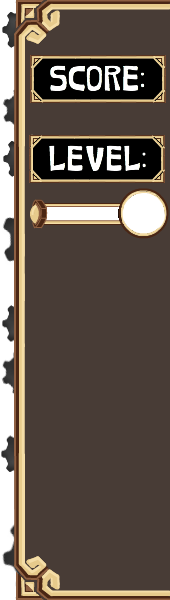
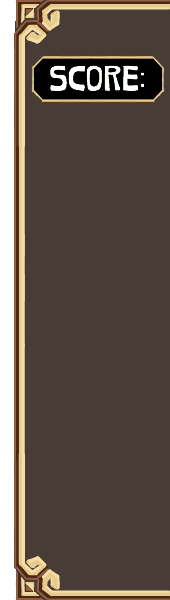
UI Update
Now matches model from Google Drive

diff --git a/src/game/UI/OldUI.java b/src/game/UI/OldUI.java
@@ -16,7 +16,7 @@ import com.badlogic.gdx.math.Rectangle;
 
 import sounds.SoundSystem;
 
-public class UI
+public class OldUI
 {
 	float UIBar;
 	float time = 0;
@@ -39,7 +39,7 @@ public class UI
 	private Sprite UIBase;
 	private Sprite XPFill;
 	private Sprite XPEmpty;
-//	private Sprite XPGlow;
+	private Sprite XPGlow;
 	private Sprite pause;
 	private Sprite nuke;
 	private Sprite nukeCount;
@@ -67,7 +67,7 @@ public class UI
 	private boolean pauseState = false;
 	public boolean nukeState = false;
 	
-	public UI(GameStats stats, GraphicsManager graphics, TheDevice state, Room room, SoundSystem sound, float[] render){
+	public OldUI(GameStats stats, GraphicsManager graphics, TheDevice state, Room room, SoundSystem sound, float[] render){
 		this.state = state;
 		
 		gWidth = render[0]*render[2];
@@ -78,7 +78,7 @@ public class UI
 		this.UIBase = new Sprite(room.getAsset("ui_base"));
 		this.XPFill = new Sprite(room.getAsset("ui_xpfill"));
 		this.XPEmpty = new Sprite(room.getAsset("ui_xpempty"));
-//		this.XPGlow = new Sprite(room.getAsset("ui_xpglow"));
+		this.XPGlow = new Sprite(room.getAsset("ui_xpglow"));
 		this.pause = new Sprite(room.getAsset("ui_pause"));
 		this.nuke = new Sprite(room.getAsset("ui_bomb"));
 		this.nukeCount = new Sprite(room.getAsset("ui_bombcount"));
@@ -97,35 +97,34 @@ public class UI
 		XPEmpty.setSize(gWidth*0.11f, gHeight*0.07f);
 		UIBox = UIBase.getBoundingRectangle();
 		//Set Glow
-//		XPGlow.setSize(gWidth * 0.15f,gHeight);
-//		XPGlow.setPosition(gWidth*0.85f, 0);
+		XPGlow.setSize(gWidth * 0.15f,gHeight);
+		XPGlow.setPosition(gWidth*0.85f, 0);
 		//Set Pause
 		pause.setPosition(gWidth*0.92f, gHeight*0.90f);
 		pause.setRegion(0, 0, 57, 57);
 		pause.setSize(gWidth*0.05f,gHeight*0.09f);
 		pauseB = pause.getBoundingRectangle();
 		//Set Nuke
-		//nuke.setPosition(gWidth*0.88f, gHeight*0.09f);
-		nuke.setPosition(gWidth*0.88f, gHeight*0.06f);
-		nuke.setSize(gWidth*0.12f, gHeight*0.18f);
+		nuke.setPosition(gWidth*0.88f, gHeight*0.14f);
+		nuke.setSize(gWidth*0.10f, gHeight*0.12f);
 		nukeB = nuke.getBoundingRectangle();
 		nukeCount.setSize(gWidth*0.08f,gHeight*0.095f);
 		//Set Mine
-		mine.setPosition(gWidth*0.875f, gHeight*0.57f);
-		mine.setSize(gWidth*0.125f,gHeight*0.165f);
+		mine.setPosition(gWidth*0.88f, gHeight*0.60f);
+		mine.setSize(gWidth*0.11f,gHeight*0.15f);
 		mine.setRegion(0,0,124,98);
 		mineB = mine.getBoundingRectangle();
 		//Set Mine count
-		mineCount.setPosition(gWidth*0.95f,gHeight*0.625f);
+		mineCount.setPosition(gWidth*0.942f,gHeight*0.345f);
 		mineCount.setSize(gWidth*0.035f,gHeight*0.058f);
 		mineCount.setRegion(117-(39*g.getMineCount()),0,39,38);
 		//Set Vortex
-		vortex.setPosition(gWidth*0.875f, gHeight*0.365f);
-		vortex.setSize(gWidth*0.125f,gHeight*0.165f);
+		vortex.setPosition(gWidth*0.88f, gHeight*0.45f);
+		vortex.setSize(gWidth*0.11f,gHeight*0.15f);
 		vortex.setRegion(0,0,124,98);
 		vortexB = vortex.getBoundingRectangle();
 		//Set Vortex count
-		vortexCount.setPosition(gWidth*0.95f,gHeight*0.42f);
+		vortexCount.setPosition(gWidth*0.942f,gHeight*0.495f);
 		vortexCount.setSize(gWidth*0.035f,gHeight*0.058f);
 		vortexCount.setRegion(117-(39*g.getMineCount()),0,39,38);
 		
@@ -221,21 +220,21 @@ public class UI
 		UIBase.draw(batch);
 		
 		//Draw Glow
-//		if(g.getXPpercent()>.95)
-//		{
-//			XPGlow.setRegion(345,0,172,602);
-//			XPGlow.draw(batch);
-//		}
-//		else if(g.getXPpercent() > .8)
-//		{
-//			XPGlow.setRegion(173,0,172,602);
-//			XPGlow.draw(batch);
-//		}
-//		else if(g.getXPpercent() > .5)
-//		{
-//			XPGlow.setRegion(0,0,172,602);
-//			XPGlow.draw(batch);
-//		}
+		if(g.getXPpercent()>.95)
+		{
+			XPGlow.setRegion(345,0,172,602);
+			XPGlow.draw(batch);
+		}
+		else if(g.getXPpercent() > .8)
+		{
+			XPGlow.setRegion(173,0,172,602);
+			XPGlow.draw(batch);
+		}
+		else if(g.getXPpercent() > .5)
+		{
+			XPGlow.setRegion(0,0,172,602);
+			XPGlow.draw(batch);
+		}
 		//Draw Score
 		String scoreString = Integer.toString(g.getScore());
 		font.draw(batch, scoreString, Gdx.graphics.getWidth() - font.getBounds(scoreString).width - gWidth*0.01f, gHeight*0.81f);
@@ -317,7 +316,7 @@ public class UI
 		{
 			nukeCount.setRegion(94,0,93,64);
 		}
-		nukeCount.setPosition(gWidth*0.86f,gHeight*0.22f);
+		nukeCount.setPosition(gWidth*0.86f,gHeight*0.09f);
 		nukeCount.draw(batch);
 		if(nukes > 1)
 		{
@@ -328,7 +327,7 @@ public class UI
 		{
 			nukeCount.setRegion(94,0,93,64);
 		}
-		nukeCount.setPosition(gWidth*0.90f,gHeight*0.24f);
+		nukeCount.setPosition(gWidth*0.90f,gHeight*0.07f);
 		nukeCount.draw(batch);
 		if(nukes > 2)
 		{
@@ -339,7 +338,7 @@ public class UI
 		{
 			nukeCount.setRegion(94,0,93,64);
 		}
-		nukeCount.setPosition(gWidth*0.94f,gHeight*0.22f);
+		nukeCount.setPosition(gWidth*0.94f,gHeight*0.09f);
 		nukeCount.draw(batch);
 		
 		

diff --git a/src/device/graphics/Graphics.java b/src/device/graphics/Graphics.java
@@ -20,6 +20,7 @@ public class Graphics
 	
 	private Sprite background;
 	private TreeMap<Float, Sprite> actors = new TreeMap<Float, Sprite>();
+	private TreeMap<Float, Sprite> hpbars = new TreeMap<Float, Sprite>();
 	private Sprite[] ui;
 	private Sprite[] buttons;
 	
@@ -28,7 +29,7 @@ public class Graphics
 	
 	public enum TYPES
 	{
-		BACKGROUND, ACTOR, UI, BUTTON
+		BACKGROUND, ACTOR, HPBAR, UI, BUTTON
 	}
 	
 	public Graphics()
@@ -52,6 +53,10 @@ public class Graphics
 				actors.put(-dst.y, s);
 				break;
 				
+			case HPBAR:
+				hpbars.put(-dst.y, s);
+				break;
+				
 			case UI:
 				ui[uicount] = s;
 				break;
@@ -67,6 +72,8 @@ public class Graphics
 		background.setScale(widthRatio, heightRatio);
 		for (Sprite s : actors.values())
 			s.setScale(widthRatio, heightRatio);
+		for (Sprite s : hpbars.values())
+			s.setScale(widthRatio, heightRatio);
 		for (Sprite s : ui)
 			s.setScale(widthRatio, heightRatio);
 		for (Sprite s : buttons)
@@ -78,6 +85,8 @@ public class Graphics
 		s.begin();
 		background.draw(s);
 		for(Sprite sprite : actors.values())
+			sprite.draw(s);
+		for(Sprite sprite : hpbars.values())
 			sprite.draw(s);
 		for(Sprite sprite : ui)
 			sprite.draw(s);

diff --git a/src/game/UI/SideBar.java b/src/game/UI/SideBar.java
@@ -1,0 +1,29 @@
+package game.UI;
+
+import java.util.HashMap;
+
+import com.badlogic.gdx.graphics.Texture;
+import com.badlogic.gdx.graphics.g2d.Sprite;
+
+//outside: pass Manager.getArtAssets("string packname")
+
+public class SideBar
+{
+	private static int screenWidth = 1280;
+	private static int screenHeight = 800;
+	private Sprite base;
+	private Sprite xpBar;
+	private Sprite xpBack;
+	private Sprite xpGlow;
+	
+	public SideBar(HashMap<String, Texture> m)
+	{
+		base = new Sprite(m.get("ui_base"));
+		base.setSize(screenWidth*0.15f,screenHeight);
+		base.setPosition(screenWidth - base.getWidth(), 0);
+		
+		xpBar = new Sprite(m.get("ui_xpfill"));
+		xpBar.setSize(screenWidth*0.15f, screenHeight);
+		xpBar.setPosition(screenWidth - xpBar.getWidth(), 0);
+	}
+}

diff --git a/src/dev/Manager.java b/src/dev/Manager.java
@@ -34,7 +34,7 @@ public class Manager {
 				"fuzz3", "data/monsters/Fuzzies3.png",		
 				"device_hit", "data/objects/device_hit.png",		
 				"indicate", "data/UI/indication_sheet.png",		
-				"mine_drop","data/objects/mineDrop.png",		
+				"mine_drop","data/objects/mineDrop.png",
 				"mine","data/mine.png",					
 				"vortex_drop","data/vortIcon.png",			
 				"vortex","data/vortex.png",					

diff --git a/src/game/GameStats.java b/src/game/GameStats.java
@@ -9,8 +9,8 @@ public class GameStats {
 	private int xpCount = 0;
 	private int xpMax=20;
 	private int level = 1;
-	private int mineCount = 0;
-	private int vortCount = 0;
+	private int mineCount = 1;
+	private int vortCount = 1;
 	private int maxItemCount;
 	private float boxHP;
 	private float totalTimeElapsed;
